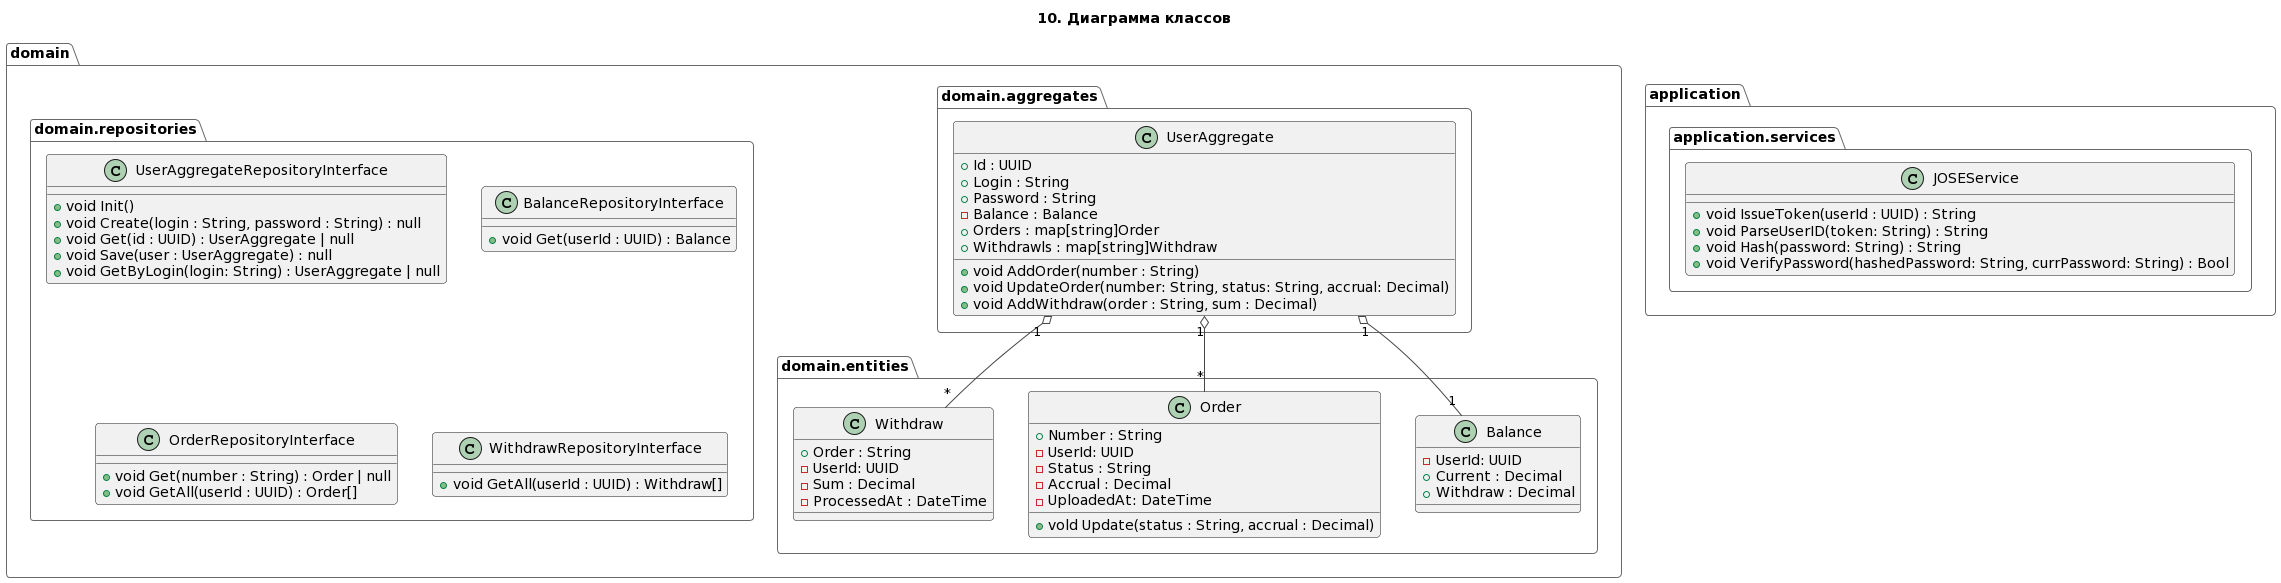
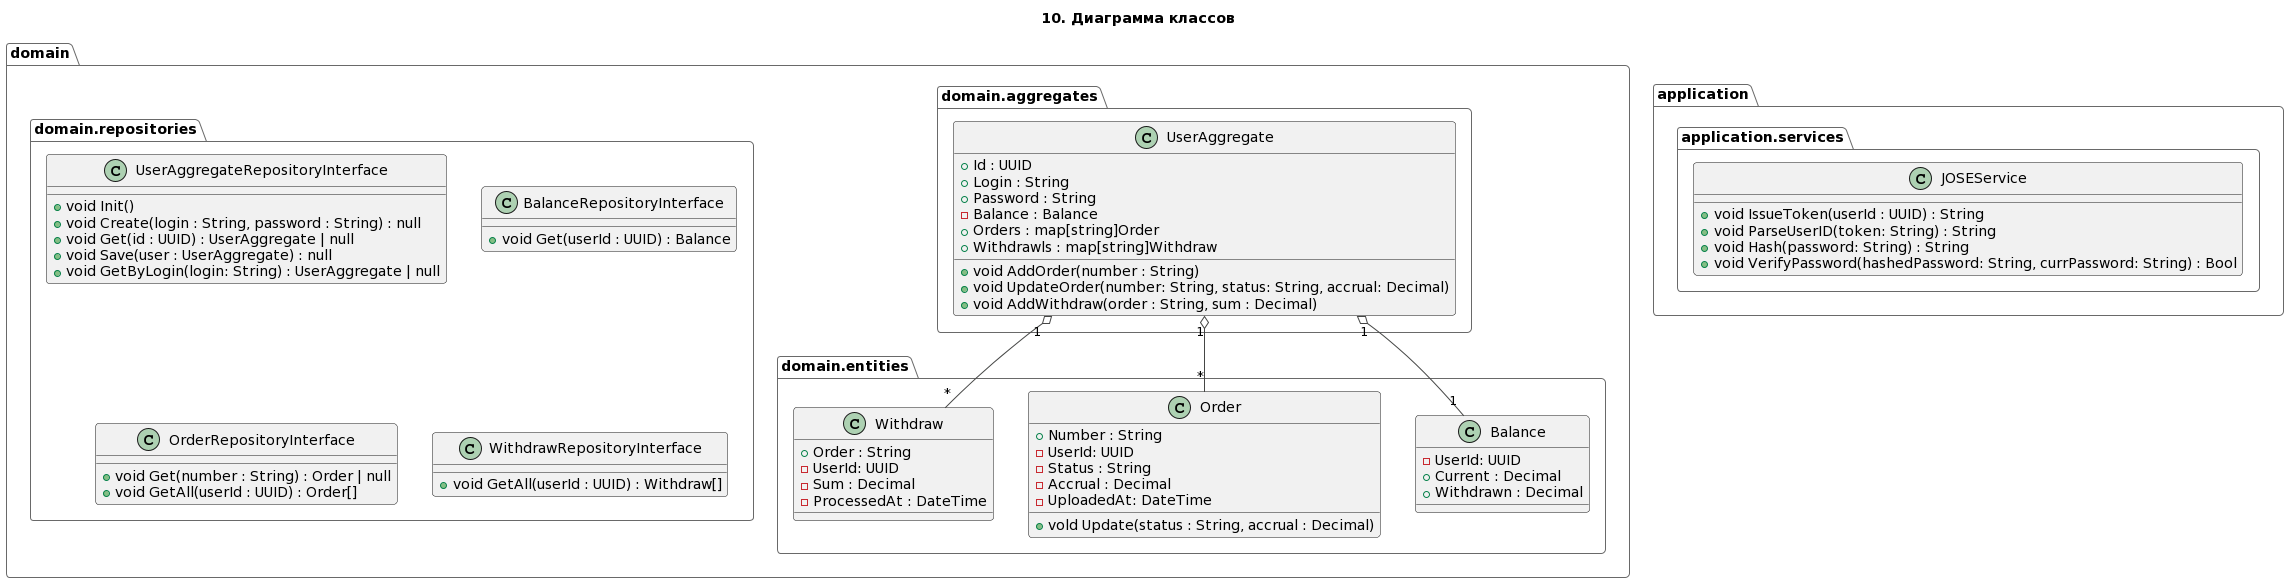
cleanups

diff --git a/internal/application/upload_withdraw_use_case.go b/internal/application/upload_withdraw_use_case.go
@@ -3,49 +3,36 @@ package application
 import (
 	"github.com/Nickolasll/gomart/internal/domain"
 	"github.com/google/uuid"
-	"github.com/sirupsen/logrus"
 )
 
 type UploadWithdraw struct {
 	withdrawRepository      domain.WithdrawRepositoryInterface
 	userAggregateRepository domain.UserAggregateRepositoryInterface
-	log                     *logrus.Logger
 }
 
 func (u UploadWithdraw) Execute(userID uuid.UUID, number string, sum float64) error {
 	if !IsValidNumber(number) {
-		u.log.Info("ErrNotValidNumber")
 		return ErrNotValidNumber
 	}
 	withdraw, err := u.withdrawRepository.Get(number)
 	if err != nil {
-		u.log.Info("get withdraw " + err.Error())
 		return err
 	}
 
 	if withdraw != nil {
-		u.log.Info("withdraw exists")
 		return ErrUploadedByAnotherUser
 	}
 
 	user, err := u.userAggregateRepository.Get(userID)
 	if err != nil {
-		u.log.Info("Get user err " + err.Error())
 		return err
 	}
-	u.log.Info("UploadWithdraw use case")
-	u.log.Info(user.Balance.Current)
-	u.log.Info(user.Balance.Withdraw)
 	user, err = user.AddWithdraw(number, sum)
 	if err != nil {
-		u.log.Info("add wighdraw " + err.Error())
 		return err
 	}
-	u.log.Info(user.Balance.Current)
-	u.log.Info(user.Balance.Withdraw)
 	err = u.userAggregateRepository.Save(user)
 	if err != nil {
-		u.log.Info("save " + err.Error())
 		return err
 	}
 	return nil

diff --git a/internal/infrastructure/user_aggregate_repository_test.go b/internal/infrastructure/user_aggregate_repository_test.go
@@ -26,12 +26,13 @@ func TestReadWrite(t *testing.T) {
 		Logger: logger.Default.LogMode(logger.Info),
 	})
 	require.NoError(t, err)
+	repo := UserAggregateRepository{DB: *db}
+	repo.Init()
 	err = db.Delete(&domain.Withdraw{Order: number}).Error
 	require.NoError(t, err)
 	err = db.Delete(&domain.Order{Number: number}).Error
 	require.NoError(t, err)
 
-	repo := UserAggregateRepository{DB: *db}
 	user, err := repo.Create(login, password)
 	require.NoError(t, err)
 	user, order := user.AddOrder(number)
@@ -47,7 +48,7 @@ func TestReadWrite(t *testing.T) {
 	assert.Equal(t, loadedUser.Login, login)
 	assert.Equal(t, loadedUser.Password, password)
 	assert.Equal(t, loadedUser.Balance.Current, 0)
-	assert.Equal(t, loadedUser.Balance.Withdraw, domain.FloatToMonetary(sum))
+	assert.Equal(t, loadedUser.Balance.Withdrawn, domain.FloatToMonetary(sum))
 	loadedOrder := loadedUser.Orders[0]
 	originalOrder := user.Orders[0]
 	assert.Equal(t, loadedOrder.Number, originalOrder.Number)

diff --git a/internal/presentation/factory_test.go b/internal/presentation/factory_test.go
@@ -441,7 +441,7 @@ func TestUploadWithdrawThisUserUploaded(t *testing.T) {
 	repo := infrastructure.UserAggregateRepository{DB: *db}
 	user := domain.UserAggregate{ID: userID}
 	repo.Save(user)
-	user.Balance = domain.Balance{Current: 0, Withdraw: 0}
+	user.Balance = domain.Balance{Current: 0, Withdrawn: 0}
 	user, err = user.AddWithdraw(number, 0)
 	require.NoError(t, err)
 	repo.Save(user)
@@ -517,7 +517,7 @@ func TestUploadWithdrawSuccess(t *testing.T) {
 	repo := infrastructure.UserAggregateRepository{DB: *db}
 	repo.Save(user)
 	user.Balance.Current = 100000
-	user.Balance.Withdraw = 50000
+	user.Balance.Withdrawn = 50000
 	repo.Save(user)
 
 	tokenValue, err := jose.IssueToken(userID)

diff --git a/internal/application/get_balance_use_case.go b/internal/application/get_balance_use_case.go
@@ -3,21 +3,14 @@ package application
 import (
 	"github.com/Nickolasll/gomart/internal/domain"
 	"github.com/google/uuid"
-	"github.com/sirupsen/logrus"
 )
 
 type GetBalance struct {
 	balanceRepository domain.BalanceRepositoryInterface
-	log               *logrus.Logger
 }
 
 func (u GetBalance) Execute(userID uuid.UUID) (domain.Balance, error) {
 	balance, err := u.balanceRepository.Get(userID)
-	u.log.Info("GetBalance use case")
-	u.log.Info(balance.Current)
-	u.log.Info(balance.Withdraw)
-	u.log.Info(balance.UserAggregateID.String())
-
 	if err != nil {
 		return balance, err
 	}

diff --git a/internal/application/factory.go b/internal/application/factory.go
@@ -47,12 +47,10 @@ func CreateApplication(DB gorm.DB, jose JOSEService, url string, log *logrus.Log
 	}
 	getBalanceUseCase := GetBalance{
 		balanceRepository: balanceRepository,
-		log:               log,
 	}
 	uploadWithdrawUseCase := UploadWithdraw{
 		withdrawRepository:      withdrawRepository,
 		userAggregateRepository: userAggregateRepository,
-		log:                     log,
 	}
 	getWithdrawalsUseCase := GetWithdrawals{
 		withdrawRepository: withdrawRepository,

diff --git a/internal/domain/entities.go b/internal/domain/entities.go
@@ -9,15 +9,15 @@ import (
 type Balance struct {
 	UserAggregateID uuid.UUID `gorm:"type:uuid;primaryKey"`
 	Current         int
-	Withdraw        int
+	Withdrawn       int
 }
 
 func (b Balance) CurrentToFloat() float64 {
 	return MonetaryToFloat(b.Current)
 }
 
-func (b Balance) WithdrawToFloat() float64 {
-	return MonetaryToFloat(b.Withdraw)
+func (b Balance) WithdrawnToFloat() float64 {
+	return MonetaryToFloat(b.Withdrawn)
 }
 
 type Order struct {

diff --git a/internal/application/registration_use_case.go b/internal/application/registration_use_case.go
@@ -24,8 +24,6 @@ func (u Registration) Execute(login string, password string) (string, error) {
 	}
 	tokenString, err := u.jose.IssueToken(userAggregate.ID)
 	if err != nil {
-		// Постоянно прокидывать ошибку выше или просто логгировать ее здесь?
-		// просто слишком часто повторяется
 		return "", err
 	}
 	return tokenString, err

diff --git a/internal/infrastructure/user_aggregate_repository.go b/internal/infrastructure/user_aggregate_repository.go
@@ -27,7 +27,7 @@ func (u UserAggregateRepository) Create(login string, password string) (domain.U
 		ID:       userID,
 		Login:    login,
 		Password: password,
-		Balance:  domain.Balance{UserAggregateID: userID, Current: 0, Withdraw: 0},
+		Balance:  domain.Balance{UserAggregateID: userID, Current: 0, Withdrawn: 0},
 	}
 	err := u.DB.Create(&user).Error
 	if err != nil {

diff --git a/internal/presentation/handlers.go b/internal/presentation/handlers.go
@@ -137,7 +137,7 @@ func GetBalanceHandler(w http.ResponseWriter, r *http.Request, UserID uuid.UUID)
 	}
 	balanceResponse := BalanceResponse{
 		Current:   balance.CurrentToFloat(),
-		Withdrawn: balance.WithdrawToFloat(),
+		Withdrawn: balance.WithdrawnToFloat(),
 	}
 	resp, err := json.Marshal(balanceResponse)
 	if err != nil {

diff --git a/internal/domain/aggregates.go b/internal/domain/aggregates.go
@@ -55,6 +55,6 @@ func (u UserAggregate) AddWithdraw(number string, sum float64) (UserAggregate, e
 	}
 	u.Withdrawals = append(u.Withdrawals, withdraw)
 	u.Balance.Current -= withdraw.Sum
-	u.Balance.Withdraw += withdraw.Sum
+	u.Balance.Withdrawn += withdraw.Sum
 	return u, nil
 }
